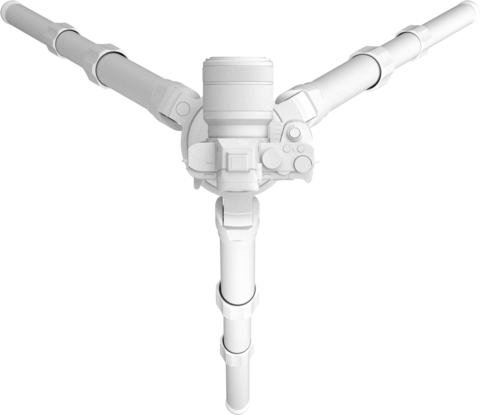
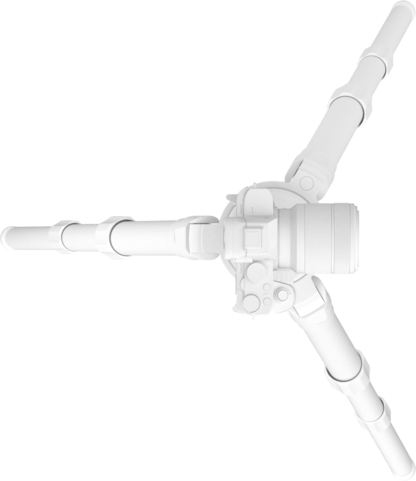
update

diff --git a/css/dollyplus.css b/css/dollyplus.css
@@ -1,3 +1,274 @@
 body {
-  padding: 80px;
+  padding: 120px;
+}
+.container {
+  position: relative;
+  width: 1200px;
+  height: 625px;
+  margin: 0 auto;
+  border-radius: 0 0 625px 625px;
+}
+.path {
+  position: absolute;
+  bottom: 140px;
+  left: 140px;
+  width: 920px;
+  height: 920px;
+  background: #99E3E3;
+  border-radius: 50%;
+}
+.path2 {
+  position: absolute;
+  bottom: 170px;
+  left: 170px;
+  width: 860px;
+  height: 860px;
+  background: #ffffff;
+  border-radius: 50%;
+}
+.path3 {
+  position: absolute;
+  z-index: 4;
+  bottom: 550px;
+  left: 550px;
+  width: 100px;
+  height: 100px;
+  background: #222222;
+  border-radius: 50%;
+  box-shadow: 0px 0px 30px 0px white;
+}
+.path3 svg {
+  padding: 18px;
+  width: 64px;
+  height: 64px;
+}
+.path3 path {
+  fill: #ffffff;
+}
+@keyframes rotate {
+  0% {
+    transform: rotate(-90deg);
+  }
+  30% {
+    transform: rotate(-180deg);
+  }
+  75% {
+    transform: rotate(0deg);
+  }
+  100% {
+    transform: rotate(-90deg);
+  }
+}
+.dollyplus {
+  width: 300px;
+  height: 50px;
+  transform-origin: 200% center;
+  position: relative;
+  transform: rotate(-90deg);
+  animation: rotate 16s ease infinite;
+}
+.dollyplus-shell {
+  position: absolute;
+  z-index: 2;
+  top: 0;
+  left: 8px;
+  width: 284px;
+  height: 50px;
+  border-radius: 3px;
+  background: #444444;
+  text-align: center;
+}
+.dollyplus-shell:before, .dollyplus-shell:after {
+  content: "";
+  position: absolute;
+  top: 4px;
+  left: 224px;
+  width: 16px;
+  height: 8px;
+  background: #333333;
+  border-radius: 3px;
+}
+.dollyplus-shell:after {
+  top: 38px;
+}
+.dollyplus-shell__battery-bracket {
+  position: absolute;
+  top: 9px;
+  left: 62px;
+  width: 46px;
+  height: 32px;
+  background: #333333;
+  border-radius: 3px;
+}
+.dollyplus-shell__handle {
+  position: absolute;
+  top: 21px;
+  left: 132px;
+  width: 36px;
+  height: 8px;
+  background: #333333;
+}
+.dollyplus-shell__handle::before, .dollyplus-shell__handle::after {
+  content: "";
+  position: absolute;
+  top: -1px;
+  left: -10px;
+  width: 14px;
+  height: 10px;
+  border-radius: 4px 0 0 4px;
+  background: #222222;
+}
+.dollyplus-shell__handle::after {
+  left: auto;
+  right: -10px;
+  border-radius: 0 4px 4px 0;
+}
+.dollyplus-shell__tripod-slot {
+  position: absolute;
+  top: 15px;
+  left: 10px;
+  width: 20px;
+  height: 20px;
+  border-radius: 4px;
+  background: #222222;
+}
+.dollyplus-shell__tripod-slot::before {
+  content: "";
+  position: absolute;
+  top: 2px;
+  left: 2px;
+  width: 16px;
+  height: 16px;
+  background: #333333;
+  border-radius: 8px;
+}
+.dollyplus-wheel::before, .dollyplus-wheel::after {
+  content: "";
+  position: absolute;
+  z-index: 1;
+  top: 1px;
+  left: 0;
+  width: 10px;
+  height: 48px;
+  border-radius: 5px;
+  background: #222222;
+}
+.dollyplus-wheel::after {
+  left: auto;
+  right: 0;
+}
+.dollyplus-wheel-leg {
+  position: absolute;
+  z-index: 1;
+  left: 234px;
+  width: 8px;
+  height: 110px;
+  background: #222222;
+}
+.dollyplus-wheel-leg--left {
+  bottom: 32px;
+  transform: rotate(-9deg);
+}
+.dollyplus-wheel-leg--right {
+  top: 32px;
+  transform: rotate(9deg);
+}
+.dollyplus-wheel-leg:before {
+  content: "";
+  position: absolute;
+  width: 4px;
+  height: 14px;
+  background: #333333;
+}
+.dollyplus-wheel-leg--left:before {
+  top: 2px;
+  left: -3px;
+  border-radius: 0 0 0 4px;
+}
+.dollyplus-wheel-leg--right:before {
+  bottom: 2px;
+  left: -3px;
+  border-radius: 4px 0 0 0;
+}
+.dollyplus-wheel-leg__tripod-slot {
+  position: absolute;
+  right: 0;
+  width: 18px;
+  height: 18px;
+  background: #222222;
+}
+.dollyplus-wheel-leg__tripod-slot::before {
+  content: "";
+  position: absolute;
+  top: 2px;
+  left: 2px;
+  width: 14px;
+  height: 14px;
+  background: #444444;
+  border-radius: 7px;
+}
+.dollyplus-wheel-leg--left .dollyplus-wheel-leg__tripod-slot {
+  top: -9px;
+  border-radius: 9px 4px 0 9px;
+}
+.dollyplus-wheel-leg--right .dollyplus-wheel-leg__tripod-slot {
+  top: auto;
+  bottom: -9px;
+  border-radius: 9px 0 4px 9px;
+}
+.dollyplus-edelkrone {
+  position: absolute;
+  z-index: 3;
+  top: 20px;
+  left: 217px;
+  line-height: 0;
+}
+.dollyplus-edelkrone img {
+  width: 56px;
+}
+.dollyplus-tripod-camera {
+  position: absolute;
+  z-index: 3;
+  top: -95px;
+  left: 22px;
+  line-height: 0;
+}
+.dollyplus-tripod-camera img {
+  width: 208px;
+}
+/* .dollyplus-laser {
+  position: absolute;
+  top: 22px;
+  left: 56px;
+  z-index: 3;
+  width: 490px;
+  height: 4px;
+  border-radius: 2px;
+  background: rgba(20,187,186,0.7);
+  box-shadow: 0px 0px 10px 0px rgba(20,187,186,1);
+} */
+.dollyplus-laser {
+  position: absolute;
+  top: -25px;
+  left: 64px;
+  z-index: 3;
+  width: 0;
+  height: 0;
+  border-style: solid;
+  border-width: 50px 532px 50px 0;
+  border-color: transparent rgba(20,187,186,0.4) transparent transparent;
+}
+.dollyplus-laser::before, .dollyplus-laser::after {
+  content: "";
+  position: absolute;
+  top: 21px;
+  width: 526px;
+  height: 4px;
+  background: rgba(20,187,186,0.4);
+  transform: rotate(5deg);
+  box-shadow: 0px 0px 20px 0px rgba(20,187,186,1);
+}
+.dollyplus-laser::after {
+  transform: rotate(-5deg);
+  top: -25px;
 }

diff --git a/index.html b/index.html
@@ -4,12 +4,40 @@
     <meta charset="UTF-8" />
     <meta http-equiv="X-UA-Compatible" content="IE=edge" />
     <meta http-equiv="pragma" content="no-cache" />
-    <meta name="viewport" content="width=1024">
+    <meta name="viewport" content="width=1440">
     <title>DollyPLUS</title>
     <link href="css/normalize.css" rel="stylesheet" />
     <link href="css/dollyplus.css" rel="stylesheet" />
   </head>
   <body>
-
+    <div class="container">
+      <div class="path"></div>
+      <div class="path2"></div>
+      <div class="path3">
+        <svg width="2500" height="2500" viewBox="0 0 256 256" xmlns="http://www.w3.org/2000/svg" preserveAspectRatio="xMinYMin meet"><path d="M255.807 87.087c-.059-.31-.11-.62-.193-.924-.052-.183-.114-.355-.172-.535a11.007 11.007 0 0 0-.283-.8c-.076-.182-.162-.358-.245-.534a9.74 9.74 0 0 0-.376-.73c-.096-.176-.207-.342-.313-.51a11.038 11.038 0 0 0-.842-1.142 11.166 11.166 0 0 0-.544-.596c-.145-.145-.29-.29-.442-.431a9.07 9.07 0 0 0-.624-.52c-.165-.128-.327-.26-.5-.377-.061-.044-.117-.096-.182-.138L134.099 1.85a10.989 10.989 0 0 0-12.201 0l-117 77.998c-.065.041-.116.093-.182.138-.172.12-.334.248-.5.376a15.52 15.52 0 0 0-.624.517 8.604 8.604 0 0 0-.438.43c-.193.194-.372.39-.548.597-.13.155-.255.31-.376.483-.165.217-.317.438-.465.669-.107.169-.214.334-.314.51a9.593 9.593 0 0 0-.372.724c-.083.176-.172.355-.245.534-.107.262-.2.531-.286.8-.058.18-.12.355-.169.517-.08.303-.138.61-.193.924-.03.159-.069.314-.09.476-.062.475-.096.951-.096 1.437v78.016c0 .482.034.965.103 1.437.025.173.07.31.104.476.055.31.103.62.207.931.048.172.103.345.172.534.086.276.172.552.276.804.072.172.172.344.241.517.114.241.242.482.38.734.096.172.206.345.31.503.148.242.31.449.482.655.121.173.242.31.38.476.175.207.344.414.551.597.141.137.276.31.448.413.2.173.414.345.62.524.166.138.346.242.483.376.066.034.104.103.173.134l116.968 78.04a10.815 10.815 0 0 0 6.102 1.851 11.06 11.06 0 0 0 6.102-1.85l117-78c.065-.04.12-.089.182-.134.172-.12.334-.248.5-.375.214-.17.424-.345.624-.524.151-.135.296-.283.441-.428a9.876 9.876 0 0 0 .92-1.072c.166-.217.318-.441.466-.669.107-.165.214-.334.314-.503.138-.242.258-.486.375-.734.083-.176.17-.352.245-.531.107-.266.197-.535.283-.804.058-.179.12-.355.172-.534.08-.303.135-.614.193-.924.028-.159.07-.314.086-.476.063-.475.097-.951.097-1.437V89c0-.486-.038-.962-.097-1.438-.027-.169-.079-.306-.113-.475h.017zm-127.81 66.935l-38.905-26.021 38.905-26.025 38.907 26.025-38.907 26.021zm-10.998-71.155l-47.692 31.9L30.81 89.013 117 31.555v51.312zm-67.477 45.13l-27.517 18.406v-36.811l27.517 18.405zm19.785 13.245L117 173.138v51.312l-86.19-57.465 38.498-25.75v.007zm69.69 31.89l47.692-31.896 38.501 25.749-86.193 57.458v-51.312zm67.477-45.128l27.521-18.409v36.815l-27.52-18.413v.007zm-19.785-13.238L138.997 82.87V31.555l86.193 57.459-38.5 25.752z" fill="#ccc"/></svg>
+      </div>
+      <div class="dollyplus">
+        <div class="dollyplus-laser"></div>
+        <div class="dollyplus-edelkrone">
+          <img src="img/edelkrone.png" />
+        </div>
+        <div class="dollyplus-shell">
+          <div class="dollyplus-shell__tripod-slot"></div>
+          <div class="dollyplus-shell__battery-bracket"></div>
+          <div class="dollyplus-shell__handle"></div>
+        </div>
+        <div class="dollyplus-wheel">
+          <div class="dollyplus-wheel-leg dollyplus-wheel-leg--left">
+            <div class="dollyplus-wheel-leg__tripod-slot"></div>
+          </div>
+          <div class="dollyplus-wheel-leg dollyplus-wheel-leg--right">
+            <div class="dollyplus-wheel-leg__tripod-slot"></div>
+          </div>
+        </div>
+        <div class="dollyplus-tripod-camera">
+          <img src="img/tripod-camera.png" />
+        </div>
+      </div>
+    </div>    
   </body>
 </html>
